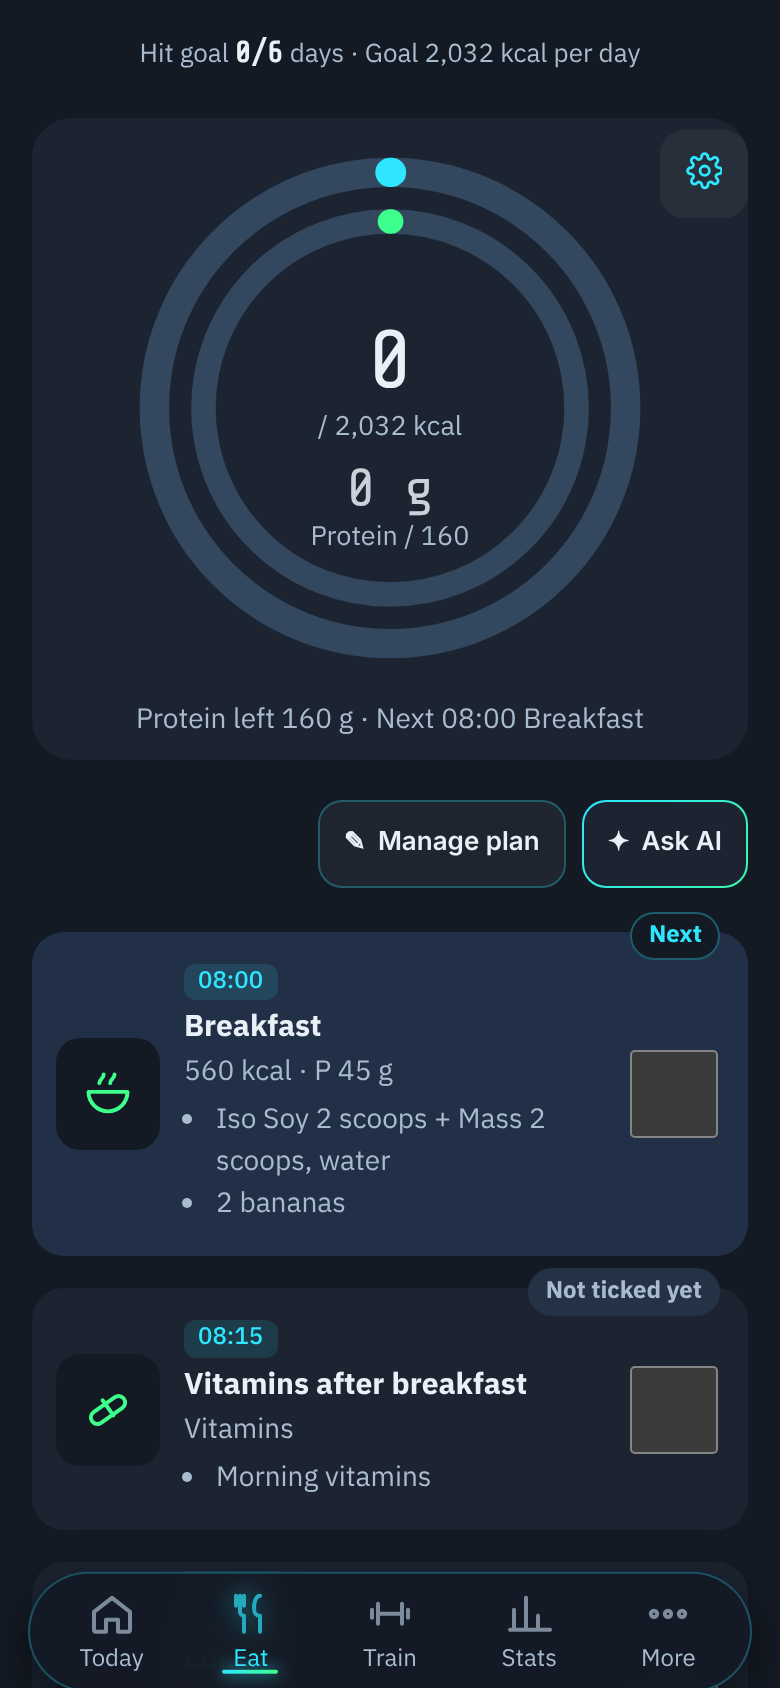
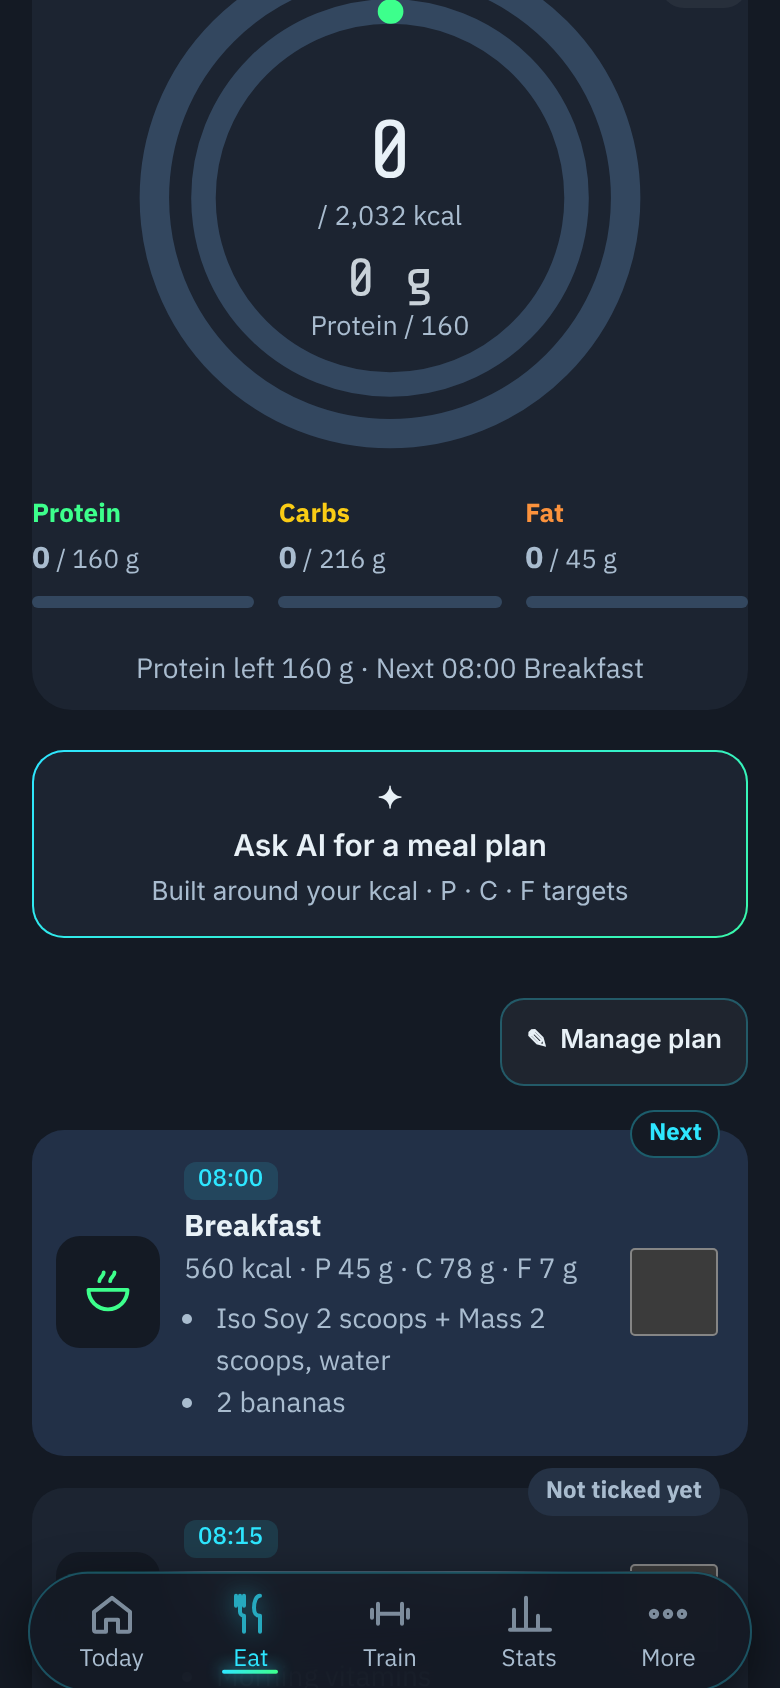
Eat & Train: Ask AI card like Stats (#215)
* docs: Today critique snapshot + redesign intent

Claude-Session: https://claude.ai/code/session_01TA1QFnqgBxBRFsiXemJ9Lg

* chore: ignore impeccable live-server state

Claude-Session: https://claude.ai/code/session_01TA1QFnqgBxBRFsiXemJ9Lg

* Today: plan first, one start button, inline meal tick, folded recovery

Claude-Session: https://claude.ai/code/session_01TA1QFnqgBxBRFsiXemJ9Lg

* docs: merge PR automatically once npm test passes

Claude-Session: https://claude.ai/code/session_01TA1QFnqgBxBRFsiXemJ9Lg

* docs: no OK wait between steps

Claude-Session: https://claude.ai/code/session_01TA1QFnqgBxBRFsiXemJ9Lg

* Today: recovery-aware start, undo on meal tick, progress bars, direct start

Claude-Session: https://claude.ai/code/session_01TA1QFnqgBxBRFsiXemJ9Lg

* Today: rested program leads, rest-day exit, inline meal cancel, over-target bar

Claude-Session: https://claude.ai/code/session_01TA1QFnqgBxBRFsiXemJ9Lg

* Today: body weight + 7-day change + weigh-in in the body card

Claude-Session: https://claude.ai/code/session_01TA1QFnqgBxBRFsiXemJ9Lg

* Today: body card shows weight, muscle mass and body fat

Claude-Session: https://claude.ai/code/session_01TA1QFnqgBxBRFsiXemJ9Lg

* Today: weigh-in opens the full body-log sheet

Claude-Session: https://claude.ai/code/session_01TA1QFnqgBxBRFsiXemJ9Lg

* Today: headline matches suggestion, inline cancel, blank weigh-in, fits above tab bar

Claude-Session: https://claude.ai/code/session_01TA1QFnqgBxBRFsiXemJ9Lg
[…]

diff --git a/public/index.html b/public/index.html
@@ -8,11 +8,11 @@
 <meta name="apple-mobile-web-app-status-bar-style" content="black-translucent">
 <meta name="apple-mobile-web-app-title" content="WeightGram">
 <link rel="manifest" href="/manifest.webmanifest">
-<link rel="apple-touch-icon" href="/apple-touch-icon.png?v=138639">
+<link rel="apple-touch-icon" href="/apple-touch-icon.png?v=138640">
 <title>WeightGram</title>
 <link rel="stylesheet" href="https://fonts.googleapis.com/css2?family=IBM+Plex+Sans+Thai:wght@400;500;700&family=IBM+Plex+Mono:wght@400;500&family=Share+Tech+Mono&display=swap">
 <style>:root{padding-top:env(safe-area-inset-top,0px);padding-bottom:env(safe-area-inset-bottom,0px)}*{-webkit-tap-highlight-color:transparent}body{margin:0;font-size:var(--t-sm);font-family:system-ui,sans-serif}img{max-width:100%}[hidden]{display:none!important}</style>
-<link rel="stylesheet" href="/css/app.css?v=138639">
+<link rel="stylesheet" href="/css/app.css?v=138640">
 </head><body>
 
 <div class="wrap">
@@ -55,7 +55,8 @@
       </div>
     </section>
 
-    <div class="mp-open-row"><button class="btn sm" id="mp-open">✎ <span data-i="จัดการแผน">จัดการแผน</span></button><button class="btn sm ai-btn" data-aikind="meal">✦ <span data-i="ให้ AI จัด">ให้ AI จัด</span></button></div>
+    <button class="btn st-ai" data-aikind="meal"><span aria-hidden="true">✦</span> <span data-i="ให้ AI จัดตารางอาหาร">ให้ AI จัดตารางอาหาร</span><small data-i="ตามเป้า kcal · P · C · F ของคุณ">ตามเป้า kcal · P · C · F ของคุณ</small></button>
+    <div class="mp-open-row"><button class="btn sm" id="mp-open">✎ <span data-i="จัดการแผน">จัดการแผน</span></button></div>
     <section class="stack" id="meals"></section>
     <button class="btn" id="food-add"><span data-i="บันทึกอาหาร">บันทึกอาหาร</span></button>
     <button class="btn ghost" id="reset" style="align-self:start" data-i="ล้างวันนี้">ล้างวันนี้</button>
@@ -283,39 +284,39 @@
   </div>
 </div>
 
-<script src="/js/core.js?v=138639"></script>
-<script src="/js/food.js?v=138639"></script>
-<script src="/js/locations.js?v=138639"></script>
-<script src="/js/programs.js?v=138639"></script>
-<script src="/js/run.js?v=138639"></script>
-<script src="/js/workout.js?v=138639"></script>
-<script src="/js/exercise-edit.js?v=138639"></script>
-<script src="/js/edit-tx.js?v=138639"></script>
-<script src="/js/exercise-library.js?v=138639"></script>
-<script src="/js/program-manager.js?v=138639"></script>
-<script src="/js/hero.js?v=138639"></script>
-<script src="/js/rest-timer.js?v=138639"></script>
-<script src="/js/auth.js?v=138639"></script>
-<script src="/js/push.js?v=138639"></script>
-<script src="/js/data-io.js?v=138639"></script>
-<script src="/js/sync.js?v=138639"></script>
-<script src="/js/muscle-map.js?v=138639"></script>
-<script src="/js/progress.js?v=138639"></script>
-<script src="/js/history-chart.js?v=138639"></script>
-<script src="/js/stats-extra.js?v=138639"></script>
-<script src="/js/meal-plan.js?v=138639"></script>
-<script src="/js/undo.js?v=138639"></script>
-<script src="/js/home.js?v=138639"></script>
-<script src="/js/share.js?v=138639"></script>
-<script src="/js/explore.js?v=138639"></script>
-<script src="/js/onboarding.js?v=138639"></script>
-<script src="/js/account.js?v=138639"></script>
-<script src="/js/share-card.js?v=138639"></script>
-<script src="/js/number-pad.js?v=138639"></script>
-<script src="/js/refresh.js?v=138639"></script>
-<script src="/js/app.js?v=138639"></script>
-<script src="/js/stats-calm.js?v=138639"></script>
-<script src="/js/ai-coach.js?v=138639"></script>
+<script src="/js/core.js?v=138640"></script>
+<script src="/js/food.js?v=138640"></script>
+<script src="/js/locations.js?v=138640"></script>
+<script src="/js/programs.js?v=138640"></script>
+<script src="/js/run.js?v=138640"></script>
+<script src="/js/workout.js?v=138640"></script>
+<script src="/js/exercise-edit.js?v=138640"></script>
+<script src="/js/edit-tx.js?v=138640"></script>
+<script src="/js/exercise-library.js?v=138640"></script>
+<script src="/js/program-manager.js?v=138640"></script>
+<script src="/js/hero.js?v=138640"></script>
+<script src="/js/rest-timer.js?v=138640"></script>
+<script src="/js/auth.js?v=138640"></script>
+<script src="/js/push.js?v=138640"></script>
+<script src="/js/data-io.js?v=138640"></script>
+<script src="/js/sync.js?v=138640"></script>
+<script src="/js/muscle-map.js?v=138640"></script>
+<script src="/js/progress.js?v=138640"></script>
+<script src="/js/history-chart.js?v=138640"></script>
+<script src="/js/stats-extra.js?v=138640"></script>
+<script src="/js/meal-plan.js?v=138640"></script>
+<script src="/js/undo.js?v=138640"></script>
+<script src="/js/home.js?v=138640"></script>
+<script src="/js/share.js?v=138640"></script>
+<script src="/js/explore.js?v=138640"></script>
+<script src="/js/onboarding.js?v=138640"></script>
+<script src="/js/account.js?v=138640"></script>
+<script src="/js/share-card.js?v=138640"></script>
+<script src="/js/number-pad.js?v=138640"></script>
+<script src="/js/refresh.js?v=138640"></script>
+<script src="/js/app.js?v=138640"></script>
+<script src="/js/stats-calm.js?v=138640"></script>
+<script src="/js/ai-coach.js?v=138640"></script>
 
 <div id="rec-wrap" class="stack" style="gap:10px" hidden><div class="rcf-head"><div class="sec-t" data-i="การฟื้นตัวของกล้ามเนื้อ">การฟื้นตัวของกล้ามเนื้อ</div><button class="btn sm" id="rec-cfg">⚙ <span data-i="ตั้งเวลาฟื้นตัว">ตั้งเวลาฟื้นตัว</span></button></div><div class="card" id="rec-body"></div></div>
 </body></html>

diff --git a/public/js/locations.js b/public/js/locations.js
@@ -314,7 +314,7 @@ function renderPlan(box){const ks=planList().slice();if(picked&&cur&&PROGS[cur]&
       <span class="row-tx">${st[0]==="pend"?"":`<span class="pl-st st-${st[0]}">${t(st[1]==="Done"?"เสร็จแล้ว_pl":"กำลังเล่น")}</span>`}${sugK===k&&!v&&!ip?`<span class="pl-sug">${t("แนะนำ")}</span>`:""}<span class="hq-chip">${isCardio(p)?t("คาร์ดิโอ"):t("เวท")}</span><b class="hq-pn">${v?"✓ ":""}${esc(p.name)}${v||ip?"":` <span class="loc-chip loc-tag">${esc(L.icon||"📍")} ${esc(t(L.name||""))}</span>`}</b><span class="pl-sub"><small>${esc(v||ip||isCardio(p)?sub:`${nU(p.ex.length,"ท่า")} · ~${p.ex.length*6} ${t("นาที")}`)}</small>${v||ip||isCardio(p)?"":` <span class="pl-det">${t("ดูรายละเอียด")} ›</span>`}</span></span><span class="pc-act">${v?"":ip?`<span class="pl-ipa"><button class="btn primary sm hq-ps" data-plgo="resume">${t("กลับไปเล่น")}</button><button class="pl-disc" data-plgo="discard">${t("ยกเลิกทั้งหมด")}</button></span>`:(k===lead?`<button class="btn primary sm hq-ps" data-plgo="start">${t("เริ่ม")}</button>`:`<span class="pc-chev" aria-hidden="true">›</span>`)}</span></div>`};
   box.innerHTML=`<h1 class="dp-h">${t("ออกกำลัง")}</h1><div class="cal-slot"></div><div class="rec-slot"></div>
     ${dayMode()==="rest"?`<div class="card rest-card"><b>${licon("moon")} ${t("พักวันนี้")}</b><small class="note">${t("ให้กล้ามได้ฟื้น — พรุ่งนี้กลับมาใหม่")}</small><button class="btn sm" data-unrest>${t("เปลี่ยนใจ — ออกกำลังกาย")}</button></div>`:""}<h2 class="dp-sub pl-h">${t(n&&d===n?"ครบแล้ววันนี้ ✓":"วันนี้จะทำอะไร?")} ${n?`<span class="pill">${d}/${n}</span>`:""}</h2>${ks.map(row).join("")||`<small class="note pl-empty">${t("ยังไม่มีอะไรในวันนี้ — เพิ่มโปรแกรมที่จะทำ")}</small>`}
-    <div class="pl-acts"><button class="${n?"pl-add":"btn primary pl-add-main"}" data-pladd>+ ${t("เพิ่มเข้าวันนี้")}</button><button class="btn ai-btn pl-ai" data-aikind="prog">✦ ${t("ให้ AI จัด")}</button>${d||ks.some(inProg)||dayMode()==="rest"?"":`<button class="btn pl-rest" data-plrest>${licon("moon")||""} ${t("พักวันนี้ดีกว่า")}</button>`}</div>`;
+    <div class="pl-acts"><button class="${n?"pl-add":"btn primary pl-add-main"}" data-pladd>+ ${t("เพิ่มเข้าวันนี้")}</button>${d||ks.some(inProg)||dayMode()==="rest"?"":`<button class="btn pl-rest" data-plrest>${licon("moon")||""} ${t("พักวันนี้ดีกว่า")}</button>`}</div><button class="btn st-ai pl-ai" data-aikind="prog"><span aria-hidden="true">✦</span> ${t("ให้ AI จัดโปรแกรมท่า")}<small>${t("ตามเป้าหมาย การฟื้นตัว และอุปกรณ์ที่มี")}</small></button>`;
   const rc=document.getElementById("rec-card");if(rc){box.querySelector(".rec-slot").appendChild(rc);try{renderRecovery()}catch(e){}}
   {const s1=document.getElementById("step1");box.querySelector(".cal-slot").appendChild(s1);s1.hidden=false}
   box.querySelectorAll("[data-pl]").forEach(r=>{const k=r.dataset.pl;r.addEventListener("click",ev=>{if(ev.target.closest("[data-pldel]")){planDel(k);renderGym();return}if(ev.target.closest("[data-plloc]")){openPlanPlace(k);return}

diff --git a/public/css/app.css b/public/css/app.css
@@ -1654,3 +1654,4 @@ body.on-stats .wrap>header{display:none}
 #macro-bars .mb{display:grid;gap:6px}#macro-bars .mb-l{display:grid;gap:2px;font-size:13px;color:var(--muted)}#macro-bars .mb-l b{font-weight:600}#macro-bars .mb-l span b{color:var(--text);font-size:15px}
 #macro-bars .mb>i{height:6px;border-radius:3px;background:var(--line);overflow:hidden;display:block}#macro-bars .mb>i>i{display:block;height:100%;border-radius:3px}
 .hq-prog{row-gap:10px}.hq-prog .hq-s:nth-child(3) .hq-bar i{background:#facc15!important}.hq-prog .hq-s:nth-child(4) .hq-bar i{background:#fb923c!important}
+#v-gym .pl-acts{grid-template-columns:1fr 1fr!important}#v-gym .pl-acts .pl-rest{grid-column:auto!important;justify-self:stretch!important}#v-gym .pl-ai{margin:4px 0 12px}#v-food .st-ai{margin:0 0 10px}

diff --git a/public/js/meal-plan.js b/public/js/meal-plan.js
@@ -46,3 +46,4 @@ Object.assign(EN,{"ถึงเป้า":"Hit goal","ต่อวัน":"per d
 
 Object.assign(EN,{"คาร์บ":"Carbs","ไขมัน":"Fat"});
 Object.assign(EN,{"ให้ AI จัด":"Ask AI"});
+Object.assign(EN,{"ให้ AI จัดตารางอาหาร":"Ask AI for a meal plan","ตามเป้า kcal · P · C · F ของคุณ":"Built around your kcal · P · C · F targets","ให้ AI จัดโปรแกรมท่า":"Ask AI for workout programs","ตามเป้าหมาย การฟื้นตัว และอุปกรณ์ที่มี":"Built around your goal, recovery and equipment"});

diff --git a/docs/work/2026-11-21-train-calm/plan-ai-cards.md b/docs/work/2026-11-21-train-calm/plan-ai-cards.md
@@ -1,0 +1,3 @@
+# Ask AI cards on Eat/Train
+- [x] same full-width gradient-border card as Stats (✦ title + subtitle)
+- [x] Eat: under the ring card, above Manage plan; Train: under Add to today / Rest today
